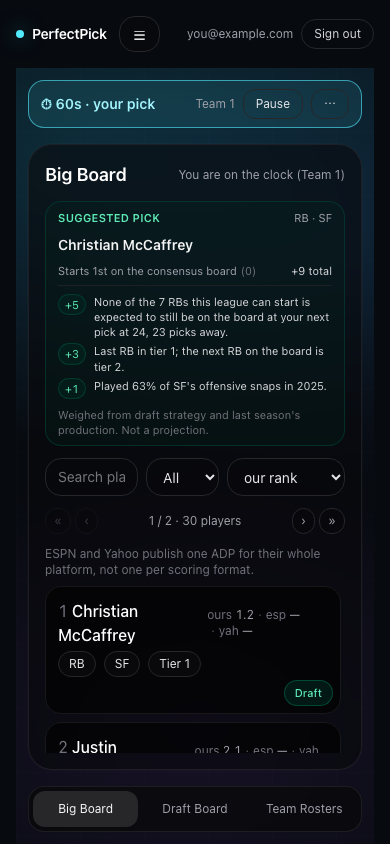
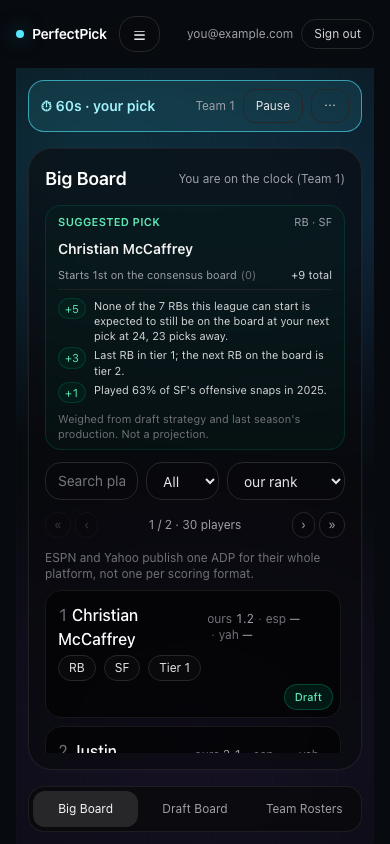
fix: the sheet stops stealing focus, and a finished draft has a way out
Whole-branch review findings.

CRITICAL: ControlSheet's focus effect took onClose -- an inline arrow
recreated every render -- and a live draft re-renders once a second from the
countdown tick. The effect tore down and re-ran each second: restore focus,
steal it back. Measured: focus on the board select returned to the panel
within 1.6s, making the sheet's headline control unusable and dismissing a
native picker mid-selection. The existing focus test passed BECAUSE of the
bug. Split into two effects, as PlayerModal already does.

The breakpoint was 1023.98px against Tailwind 4's 64rem. Those disagree the
moment a browser's default font size changes -- at Chrome's Large setting the
hook flips at 1024 while the classes flip at 1280, and every width between
renders with no header, no strip, no tab bar and one unreachable panel. Now
expressed in rem, so drift is impossible by construction.

A finished draft had a dead ellipsis over an empty sheet (all five controls
are !completed-gated) and no route to its results at all -- View Results
existed only in the desktop header. The strip now carries it.

Also: a board-attached fit test, since every phone test so far ran the one
configuration with slack to spare; sheetOpen no longer survives a resize past
lg; stale comments corrected; matchMedia hoisted.

diff --git a/frontend/tests/draftphone.spec.js b/frontend/tests/draftphone.spec.js
@@ -1,5 +1,5 @@
 import { test, expect } from "@playwright/test";
-import { DRAFT_ID, makeDraftState, mockDraftApis } from "./fixtures.js";
+import { BOARD_ID, DRAFT_ID, makeBoardState, makeDraftState, mockDraftApis } from "./fixtures.js";
 import { signIn } from "./auth.js";
 import { fileURLToPath } from "url";
 import path from "path";
@@ -40,6 +40,27 @@ test.describe("the draft page on a phone", () => {
       inner: window.innerWidth,
     }));
     expect(horizontal.docScrollWidth).toBeLessThanOrEqual(horizontal.inner);
+  });
+
+  // Every other phone test runs a draft with no board attached, which is the
+  // one configuration with slack to spare: measured, scroll-big-board sits at
+  // about 164px against its own min-h-[160px] floor. A board adds the
+  // "drafting off your board" note to a panel with roughly 4px to give, and
+  // attaching a board is the app's central feature. If this fails, the fix is
+  // inside the panel's density, not a number in this test.
+  test("a draft with a board attached still fits the screen", async ({ page }) => {
+    const state = { ...makeDraftState({ currentIndex: 0 }), boardId: BOARD_ID };
+    mockDraftApis(page, state);
+    await page.route(`**/boards/${BOARD_ID}`, (r) => r.fulfill({ json: makeBoardState() }));
+    await signIn(page);
+    await page.goto(`/draft/${DRAFT_ID}`);
+    await expect(page.getByTestId("tab-bar")).toBeVisible();
+
+    const bar = await page.getByTestId("tab-bar").boundingBox();
+    expect(bar.y + bar.height).toBeLessThanOrEqual(844);
+
+    const { scrollHeight, clientHeight } = await scroller(page);
+    expect(scrollHeight).toBeLessThanOrEqual(clientHeight + 8);
   });
 
   test("each tab shows its own panel and hides the others", async ({ page }) => {
@@ -166,11 +187,52 @@ test.describe("the draft page on a phone", () => {
     await expect(sheet).toHaveCount(0);
   });
 
+  // The sheet's own controls have to stay usable for longer than one tick. The
+  // focus effect used to take `onClose` -- an inline arrow recreated on every
+  // render -- so the 1s countdown re-ran it every second, restoring focus and
+  // immediately re-stealing it. Measured before the fix: focus placed on the
+  // board select was back on the panel within 1.6s. The existing "takes focus
+  // on open" test passed BECAUSE of that bug, since the panel was re-focused
+  // whenever it was sampled.
+  test("focus stays where you put it inside the sheet", async ({ page }) => {
+    await openDraft(page);
+    await page.getByTestId("open-controls").click();
+    const sheet = page.getByTestId("control-sheet");
+    await expect(sheet).toBeVisible();
+
+    const select = sheet.getByTestId("seat-board");
+    await select.focus();
+    await expect(select).toBeFocused();
+
+    // Longer than the countdown tick that used to steal it.
+    await page.waitForTimeout(1600);
+    await expect(select).toBeFocused();
+  });
+
+  // Every control in the sheet is gated on !completed, so ⋯ would open a sheet
+  // holding nothing but its grab handle -- and View Results lived only in the
+  // desktop header, leaving a phone user who just finished a draft with no way
+  // to its results except leaving the page entirely.
+  test("a finished draft offers its results, not an empty sheet", async ({ page }) => {
+    const state = makeDraftState({ currentIndex: 0 });
+    const completed = { ...state, currentIndex: state.picks.length, completed: true };
+    await page.route("**/players*", (r) => r.fulfill({ json: { players: [] } }));
+    await page.route(`**/drafts/${DRAFT_ID}`, (r) => r.fulfill({ json: completed }));
+    await signIn(page);
+    await page.goto(`/draft/${DRAFT_ID}`);
+    await expect(page.getByTestId("status-strip")).toBeVisible();
+
+    await expect(page.getByTestId("open-controls")).toHaveCount(0);
+    const results = page.getByTestId("strip-results");
+    await expect(results).toBeVisible();
+    await expect(results).toHaveAttribute("href", `/draft/${DRAFT_ID}/results`);
+  });
+
   test("the setup controls are in the sheet, not the strip", async ({ page }) => {
     await openDraft(page);
 
-    // Closed, the only copies in the DOM are the desktop header's, hidden by
-    // max-lg:hidden -- one match each, so these are unambiguous.
+    // The header is absent on a phone, so closed there are zero copies of
+    // these anywhere -- count, not visibility, is the honest assertion.
     const ids = ["seat-board", "copy-invite", "notify-toggle"];
     for (const id of ids) await expect(page.getByTestId(id)).toBeHidden();
     await expect(page.getByRole("button", { name: "Auto Pick" })).toBeHidden();
@@ -179,9 +241,9 @@ test.describe("the draft page on a phone", () => {
     const sheet = page.getByTestId("control-sheet");
     await expect(sheet).toBeVisible();
 
-    // Scoped to the sheet on purpose. With it open there are TWO elements for
-    // each testid -- the header's hidden copy and the sheet's -- and an
-    // unscoped getByTestId would be a strict-mode violation, not a pass.
+    // Scoped to the sheet. There is exactly one copy now that the header is
+    // absent on a phone, so this is belt-and-braces -- but it keeps the
+    // assertion honest if the header ever comes back at this width.
     for (const id of ids) await expect(sheet.getByTestId(id)).toBeVisible();
     await expect(sheet.getByRole("button", { name: "Auto Pick" })).toBeVisible();
     await expect(sheet.getByRole("button", { name: "Sim to End" })).toBeVisible();

diff --git a/frontend/src/components/draft/StatusStrip.jsx b/frontend/src/components/draft/StatusStrip.jsx
@@ -1,5 +1,7 @@
 // What is true right now, and the one control you reach for in a hurry. The
 // clock cannot be a tap away, which is why every draft app pins it.
+import { Link } from "react-router-dom";
+
 export default function StatusStrip({
   statusLabel,
   myTeam,
@@ -10,6 +12,7 @@ export default function StatusStrip({
   onTogglePause,
   onOpenSheet,
   onTap,
+  resultsHref,
 }) {
   return (
     <div
@@ -35,20 +38,36 @@ export default function StatusStrip({
           type="button"
           onClick={onTogglePause}
           disabled={busy}
-          className="rounded-xl border border-zinc-800 px-3 py-1.5 text-xs text-zinc-200 disabled:opacity-50"
+          className="rounded-xl border border-zinc-800 px-3 py-2 text-xs text-zinc-200 disabled:opacity-50"
         >
           {paused ? "Resume" : "Pause"}
         </button>
       )}
-      <button
-        type="button"
-        data-testid="open-controls"
-        onClick={onOpenSheet}
-        aria-label="Draft controls"
-        className="rounded-xl border border-zinc-800 px-3 py-1.5 text-xs text-zinc-200"
-      >
-        ⋯
-      </button>
+      {completed ? (
+        // Every control in the sheet is gated on !completed, so ⋯ would open a
+        // sheet holding nothing but its grab handle. The same rule the
+        // completed-draft header follows: do not offer what cannot act. What a
+        // finished draft needs instead is the way out, which until now existed
+        // only in the desktop header -- a phone user who finished a draft had
+        // to leave via My Drafts and come back in.
+        <Link
+          to={resultsHref}
+          data-testid="strip-results"
+          className="rounded-xl bg-emerald-400 px-3 py-2 text-xs font-semibold text-black"
+        >
+          View Results →
+        </Link>
+      ) : (
+        <button
+          type="button"
+          data-testid="open-controls"
+          onClick={onOpenSheet}
+          aria-label="Draft controls"
+          className="rounded-xl border border-zinc-800 px-3 py-2 text-xs text-zinc-200"
+        >
+          ⋯
+        </button>
+      )}
     </div>
   );
 }

diff --git a/frontend/src/components/draft/ControlSheet.jsx b/frontend/src/components/draft/ControlSheet.jsx
@@ -5,26 +5,31 @@ import { useEffect, useRef } from "react";
 // mis-tap generator.
 export default function ControlSheet({ open, onClose, children }) {
   const panel = useRef(null);
-  const restoreTo = useRef(null);
 
-  // role="dialog" is a promise about behaviour, not a label. Without these a
-  // keyboard user tabs straight through the dimmed backdrop into the page
-  // behind, and Escape -- the one key everyone tries -- does nothing.
+  // Keyed on `open` ALONE, deliberately. `onClose` is an inline arrow recreated
+  // on every render of Draft, and a live draft re-renders once a second from
+  // the countdown tick -- so including it here tore this effect down and ran it
+  // again every second, restoring focus and then re-stealing it. Measured:
+  // focus placed on the board select was back on the panel within 1.6s, which
+  // made the sheet's headline control impossible to use and would dismiss a
+  // native picker mid-selection. The keydown listener below can take `onClose`
+  // because re-registering a listener costs nothing and moves no focus.
   useEffect(() => {
     if (!open) return undefined;
-    restoreTo.current = document.activeElement;
+    const restoreTo = document.activeElement;
     panel.current?.focus();
+    return () => restoreTo?.focus?.();
+  }, [open]);
 
+  // role="dialog" is a promise about behaviour, not a label. Escape is the key
+  // everyone tries first.
+  useEffect(() => {
+    if (!open) return undefined;
     const onKey = (e) => {
       if (e.key === "Escape") onClose();
     };
     document.addEventListener("keydown", onKey);
-    return () => {
-      document.removeEventListener("keydown", onKey);
-      // Send focus back where it came from, so dismissing the sheet does not
-      // dump the caret at the top of the document.
-      restoreTo.current?.focus?.();
-    };
+    return () => document.removeEventListener("keydown", onKey);
   }, [open, onClose]);
 
   if (!open) return null;

diff --git a/frontend/src/lib/useIsPhone.js b/frontend/src/lib/useIsPhone.js
@@ -7,12 +7,20 @@ import { useSyncExternalStore } from "react";
 // unscoped getByText in the existing suite into a strict-mode violation. CSS
 // cannot express "do not exist", so this is the one piece of the phone layout
 // that is decided in JS rather than by a max-lg: variant.
-const QUERY = "(max-width: 1023.98px)";
+// Expressed in rem, matching Tailwind 4's own --breakpoint-lg: 64rem. A px
+// query drifts from the classes the moment a user changes their browser's
+// default font size: at Chrome's "Large" (20px) setting `lg` becomes 1280px
+// while a 1024px hook still flips at 1024 -- and every width between renders
+// with no header (max-lg:hidden still matching), no strip, no tab bar and one
+// unreachable panel. Same unit, no drift, by construction.
+const QUERY = "(width < 64rem)";
+
+const mql = () => window.matchMedia(QUERY);
 
 function subscribe(callback) {
-  const mql = window.matchMedia(QUERY);
-  mql.addEventListener("change", callback);
-  return () => mql.removeEventListener("change", callback);
+  const m = mql();
+  m.addEventListener("change", callback);
+  return () => m.removeEventListener("change", callback);
 }
 
 export function useIsPhone() {

diff --git a/frontend/src/pages/Draft.jsx b/frontend/src/pages/Draft.jsx
@@ -44,6 +44,11 @@ export default function Draft() {
   const [boardMeta, setBoardMeta] = useState(null);
   const [sheetOpen, setSheetOpen] = useState(false);
   const isPhone = useIsPhone();
+  // Widening past lg unmounts the sheet but keeps this state, so narrowing back
+  // would re-open it unbidden. `tab` surviving is wanted; this is not.
+  useEffect(() => {
+    if (!isPhone) setSheetOpen(false);
+  }, [isPhone]);
   // Read once at mount: pushState() is cheap (no network) and this control
   // only ever changes in response to this browser's own click below, never
   // from anything the draft's polling could bring back.
@@ -739,6 +744,7 @@ export default function Draft() {
             onTogglePause={togglePause}
             onOpenSheet={() => setSheetOpen(true)}
             onTap={() => setTab("board")}
+            resultsHref={`/draft/${draftId}/results`}
           />
         )}
 
